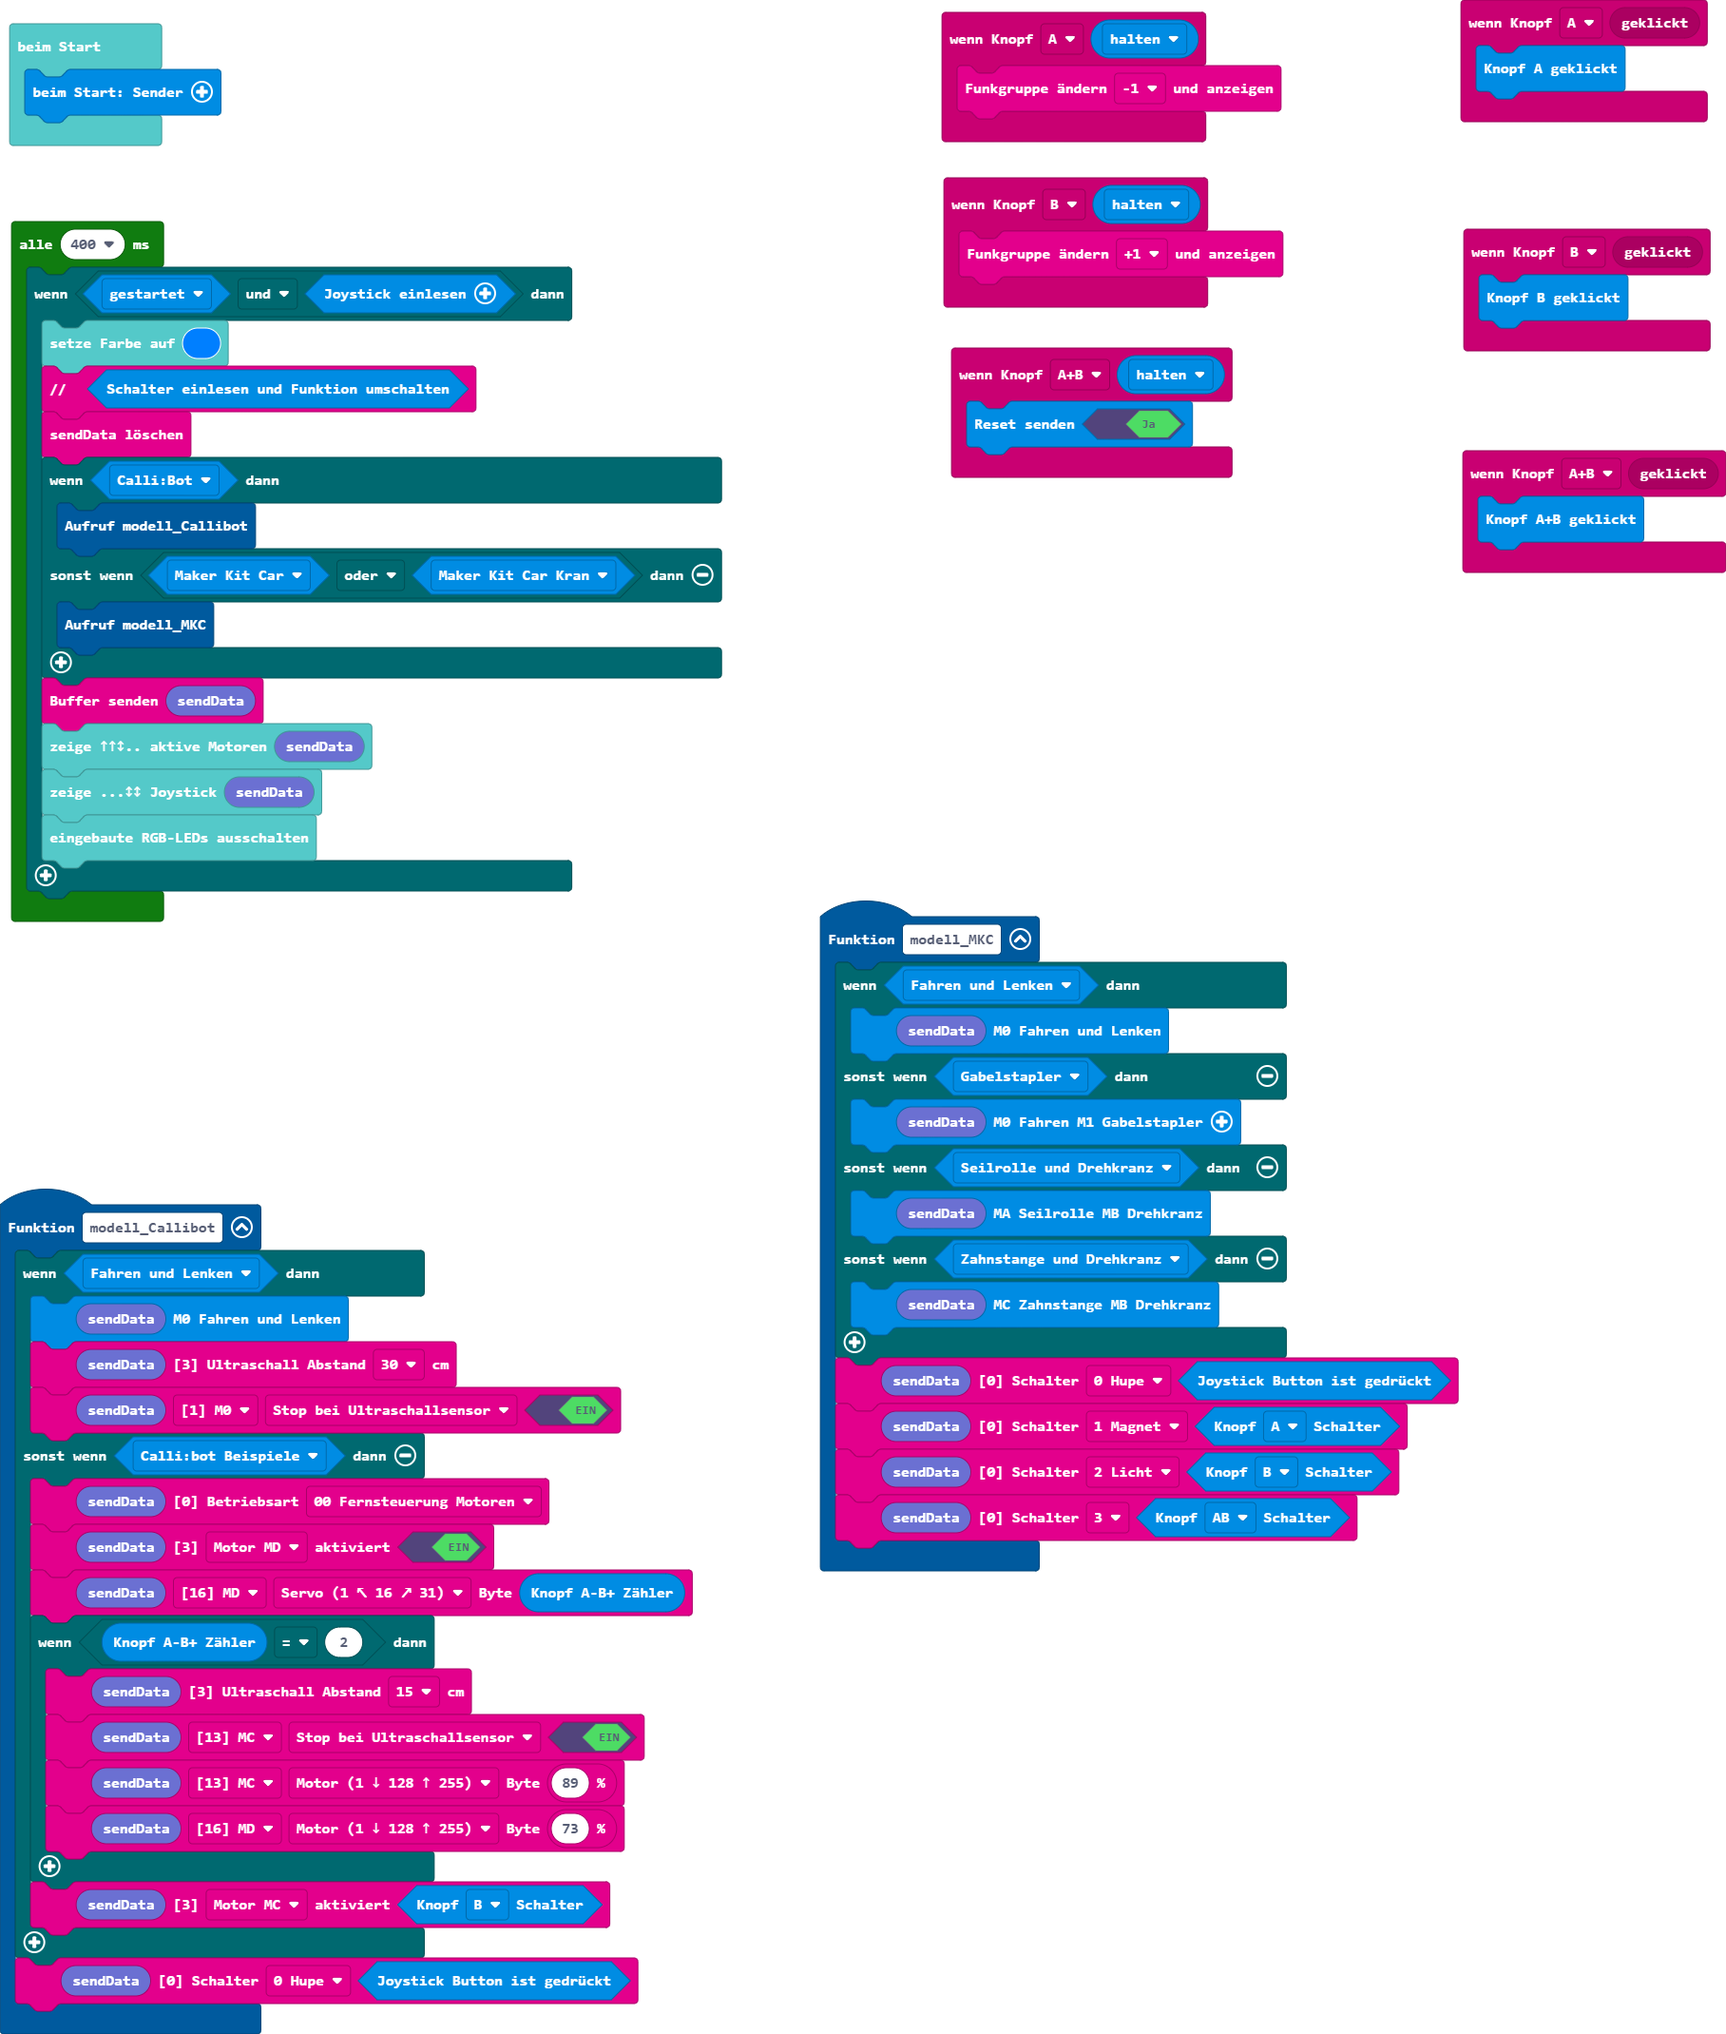
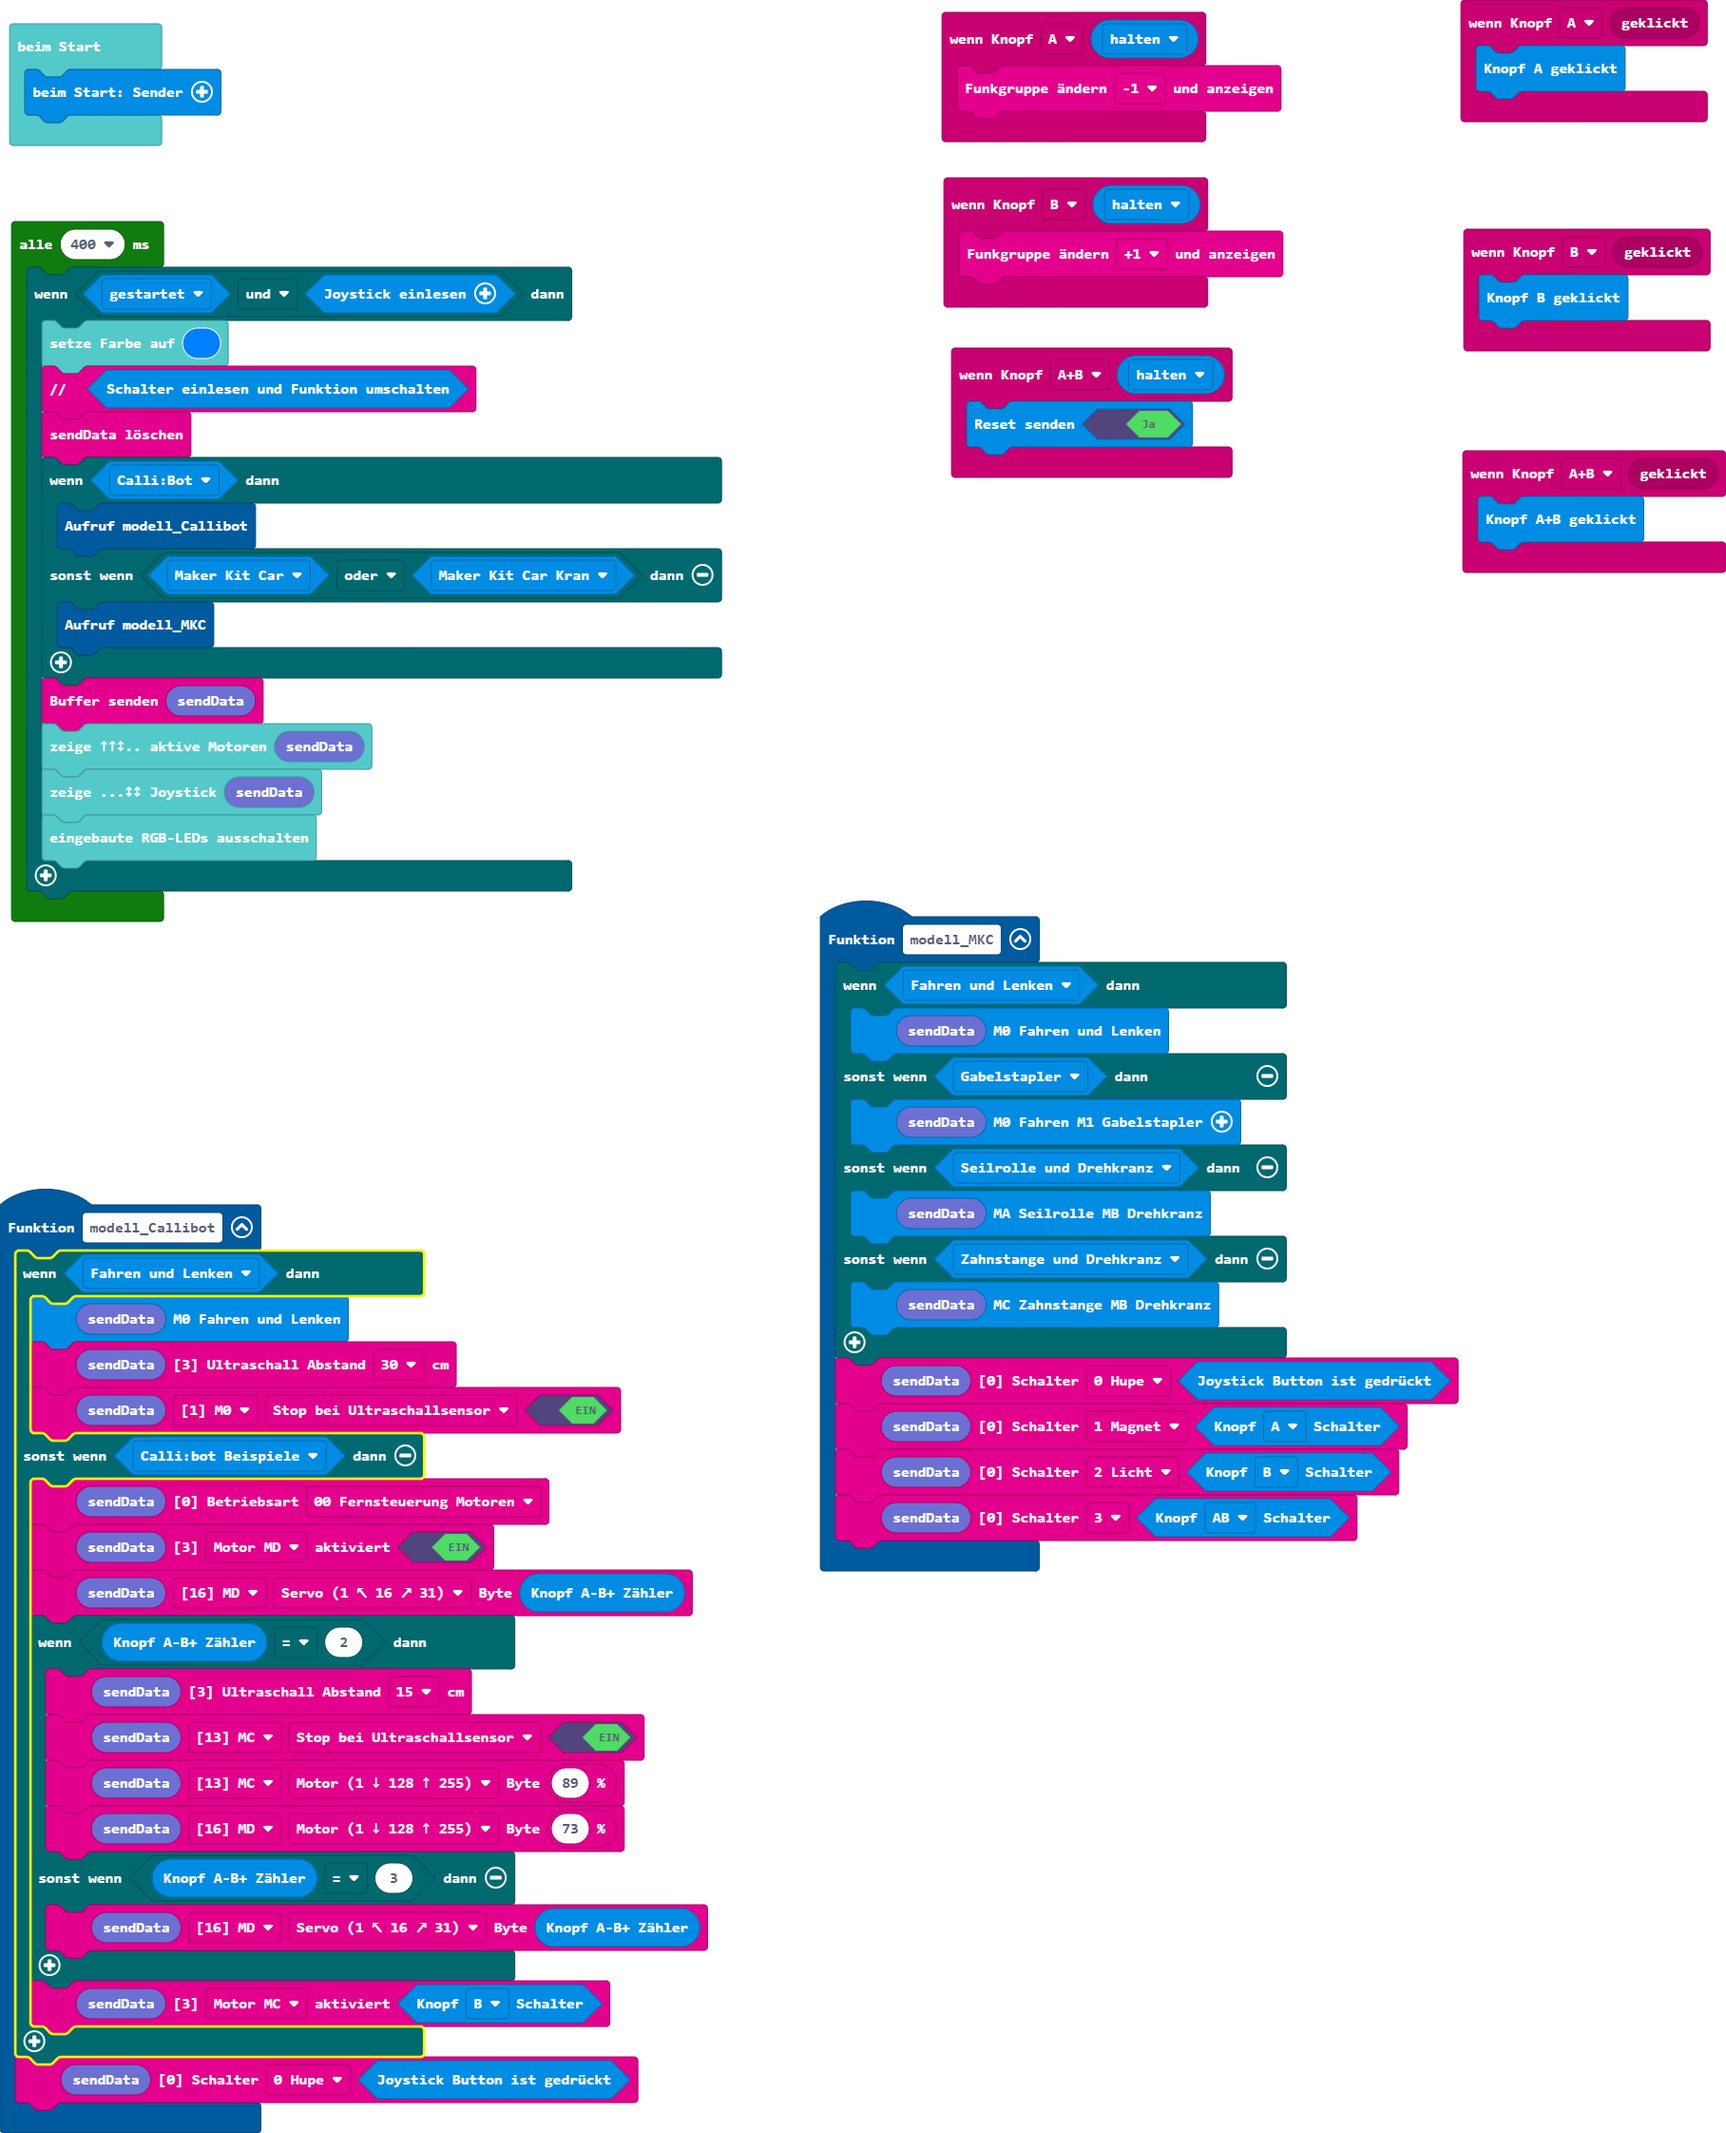
Aktualisiere main.blocks, main.ts

diff --git a/main.ts b/main.ts
@@ -12,6 +12,8 @@ function modell_Callibot () {
             btf.setSensor(btf.btf_sendBuffer19(), btf.eBufferPointer.mc, btf.eSensor.b6, true)
             btf.setByte(btf.btf_sendBuffer19(), btf.eBufferPointer.mc, btf.eBufferOffset.b0_Motor, btf.speedPicker(89))
             btf.setByte(btf.btf_sendBuffer19(), btf.eBufferPointer.md, btf.eBufferOffset.b0_Motor, btf.speedPicker(73))
+        } else if (sender.getButtonAB_Counter() == 3) {
+            btf.setByte(btf.btf_sendBuffer19(), btf.eBufferPointer.md, btf.eBufferOffset.b1_Servo, sender.getButtonAB_Counter())
         }
         btf.setaktiviert(btf.btf_sendBuffer19(), btf.e3aktiviert.mc, sender.getButtonAB_Switch(sender.eButtonAB_Switch.B))
     }
